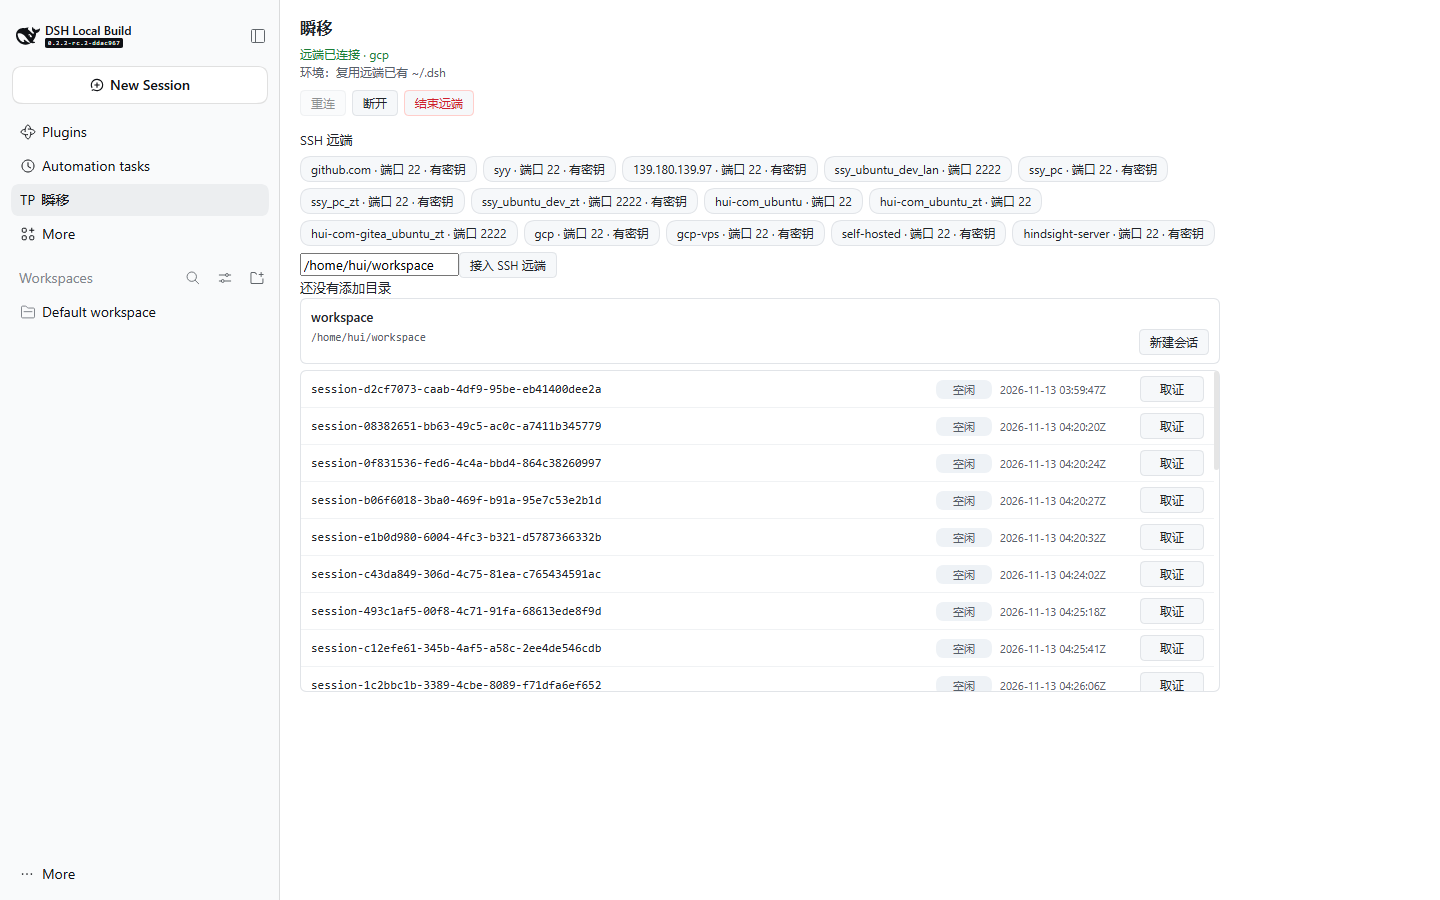
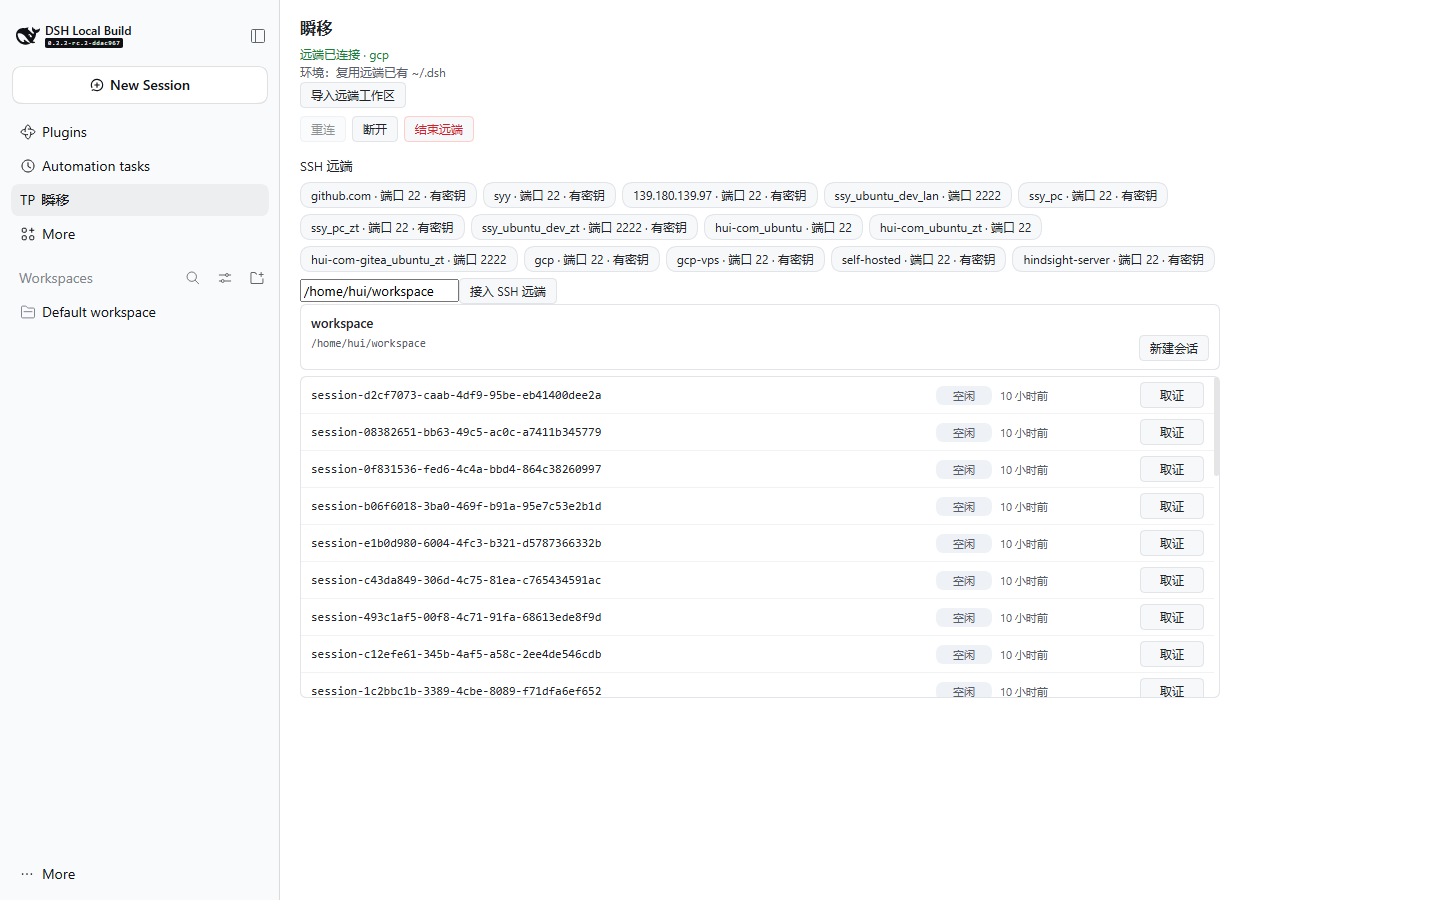
feat(client): 时间本地化、主机区滚动、空态去重（UI 第二轮）
三处收尾，全部是「读起来不对劲」的问题：

1. **时间**：原来固定输出 UTC（`2026-11-13 03:59:47Z`）。现在一小时内显示「刚刚 / N 分钟前 / N 小时前」，
   更久远用本地时区的 `YYYY-MM-DD HH:mm`，不再带 Z。测试改为注入 now，断言四种形态。
2. **空态自相矛盾**：「还没有添加目录」在已有投影工作区时也显示，读起来像「明明有却说没有」。
   改为只有「既无手工目录、也无投影工作区」时才出现。
3. **主机区**：这台远端有 13 个别名，原来是一堵墙。先试了折叠（只铺前 6 个），结果 gcp 被藏起来——
   探针与用户都找不到，说明折叠是错的。改成 max-height 96px + 滚动：**不隐藏任何一条**。

截图已用 GATE=shots 重抓（三张）。

门禁：client tsc Exit 0、pnpm test 全绿、build:client 20 modules / 91500 B。

Changed region(s): [[0.1875, 0.0933, 0.8438, 0.7778], [0.7812, 0.5911, 0.8438, 0.6533]]

diff --git a/src/client/panel.ts b/src/client/panel.ts
@@ -230,9 +230,20 @@ export function disconnectPlan(snapshot: ProjectionSnapshotInfo | null): ButtonP
  * 远端给的是 ISO-8601；解析不了就原样返回，**不拿本地时钟编一个**——
  * 编出来的时间会让「这条会话是旧的」这种判断变成假的。
  */
-export function formatUpdatedAt(iso: string | undefined): string {
+export function formatUpdatedAt(iso: string | undefined, now: number = Date.now()): string {
   if (iso === undefined) return '时间未知'
   const at = Date.parse(iso)
   if (Number.isNaN(at)) return iso
-  return new Date(at).toISOString().replace('T', ' ').slice(0, 19) + 'Z'
+  // 相对时间只覆盖「一小时内」：再久远的写「37 小时前」反而要用户心算。
+  const delta = now - at
+  if (delta >= 0 && delta < 60_000) return '刚刚'
+  if (delta >= 60_000 && delta < 3_600_000) return String(Math.floor(delta / 60_000)) + ' 分钟前'
+  if (delta >= 3_600_000 && delta < 86_400_000) return String(Math.floor(delta / 3_600_000)) + ' 小时前'
+  // 本地时区、精确到分钟：UTC 的 `Z` 后缀在面板上纯属噪音（读者按本地时间理解一切）。
+  const local = new Date(at)
+  const pad = (value: number): string => String(value).padStart(2, '0')
+  return (
+    String(local.getFullYear()) + '-' + pad(local.getMonth() + 1) + '-' + pad(local.getDate()) +
+    ' ' + pad(local.getHours()) + ':' + pad(local.getMinutes())
+  )
 }

diff --git a/src/client/panel.test.ts b/src/client/panel.test.ts
@@ -110,7 +110,11 @@ test('未确认远端执行时，报告与摘要都必须带上原因', () => {
 test('时间格式化：解析不了就原样返回，绝不拿本地时钟编一个', () => {
   assert.equal(formatUpdatedAt(undefined), '时间未知')
   assert.equal(formatUpdatedAt('not-a-date'), 'not-a-date')
-  assert.equal(formatUpdatedAt('2026-10-31T09:05:06.789Z'), '2026-10-31 09:05:06Z')
+  assert.equal(formatUpdatedAt('2026-10-31T09:05:06.789Z', Date.parse('2026-10-31T09:05:30.000Z')), '刚刚')
+assert.equal(formatUpdatedAt('2026-10-31T09:05:06.789Z', Date.parse('2026-10-31T09:35:06.789Z')), '30 分钟前')
+assert.equal(formatUpdatedAt('2026-10-31T09:05:06.789Z', Date.parse('2026-10-31T12:05:06.789Z')), '3 小时前')
+// 更久远的一律本地日期（不写 Z）：具体值依赖运行时的时区，只断言形状。
+assert.match(formatUpdatedAt('2026-10-31T09:05:06.789Z', Date.parse('2026-11-05T00:00:00.000Z')), /^\d{4}-\d{2}-\d{2} \d{2}:\d{2}$/)
 })
 
 function snapshot(overrides: Partial<ProjectionSnapshotInfo> = {}): ProjectionSnapshotInfo {

diff --git a/src/client/components.ts b/src/client/components.ts
@@ -884,6 +884,8 @@ export function TeleportPanel(): unknown {
           h(
             'div',
             { 'data-teleport': 'ssh-aliases' },
+            // 不隐藏任何主机：折叠会把 gcp 这类排后面的主机藏起来（探针与用户都找不到）。
+            // 视觉上由 CSS 的 max-height + 滚动控制。
             ...sshHosts.map((host) =>
               h(
                 'button',
@@ -1128,7 +1130,11 @@ export function TeleportPanel(): unknown {
     h(
       'div',
       { 'data-teleport': 'panel-workspaces' },
-      ...(addRows.length === 0 ? [h('div', { 'data-teleport': 'panel-empty' }, '还没有添加目录')] : addRows),
+      // 只有「既没有手工目录、也没有投影工作区」时才显示空态：
+      // 否则会出现「明明侧栏里有工作区，这里却说还没有添加目录」的自相矛盾。
+      ...(addRows.length === 0 && projectedRows.length === 0
+        ? [h('div', { 'data-teleport': 'panel-empty' }, '还没有添加目录')]
+        : addRows),
     ),
     h(
       'div',

diff --git a/src/client/styles.ts b/src/client/styles.ts
@@ -55,7 +55,11 @@ export const PANEL_CSS = `
 }
 [data-teleport='panel'] button[data-teleport='stop-remote'] { color: ${COLORS.danger}; border-color: #ffcecb; }
 
-[data-teleport='panel'] [data-teleport='ssh-aliases'] { display: flex; flex-wrap: wrap; gap: 6px; margin: 6px 0; }
+[data-teleport='panel'] [data-teleport='ssh-aliases'] {
+  display: flex; flex-wrap: wrap; gap: 6px; margin: 6px 0;
+  /* 主机多时给一块固定高度 + 滚动：不隐藏任何一条（隐藏会让「找不到我的主机」变成真问题）。 */
+  max-height: 96px; overflow-y: auto;
+}
 [data-teleport='panel'] [data-teleport='ssh-alias'] { border-radius: 999px; }
 
 [data-teleport='panel'] [data-teleport='projected'] {
